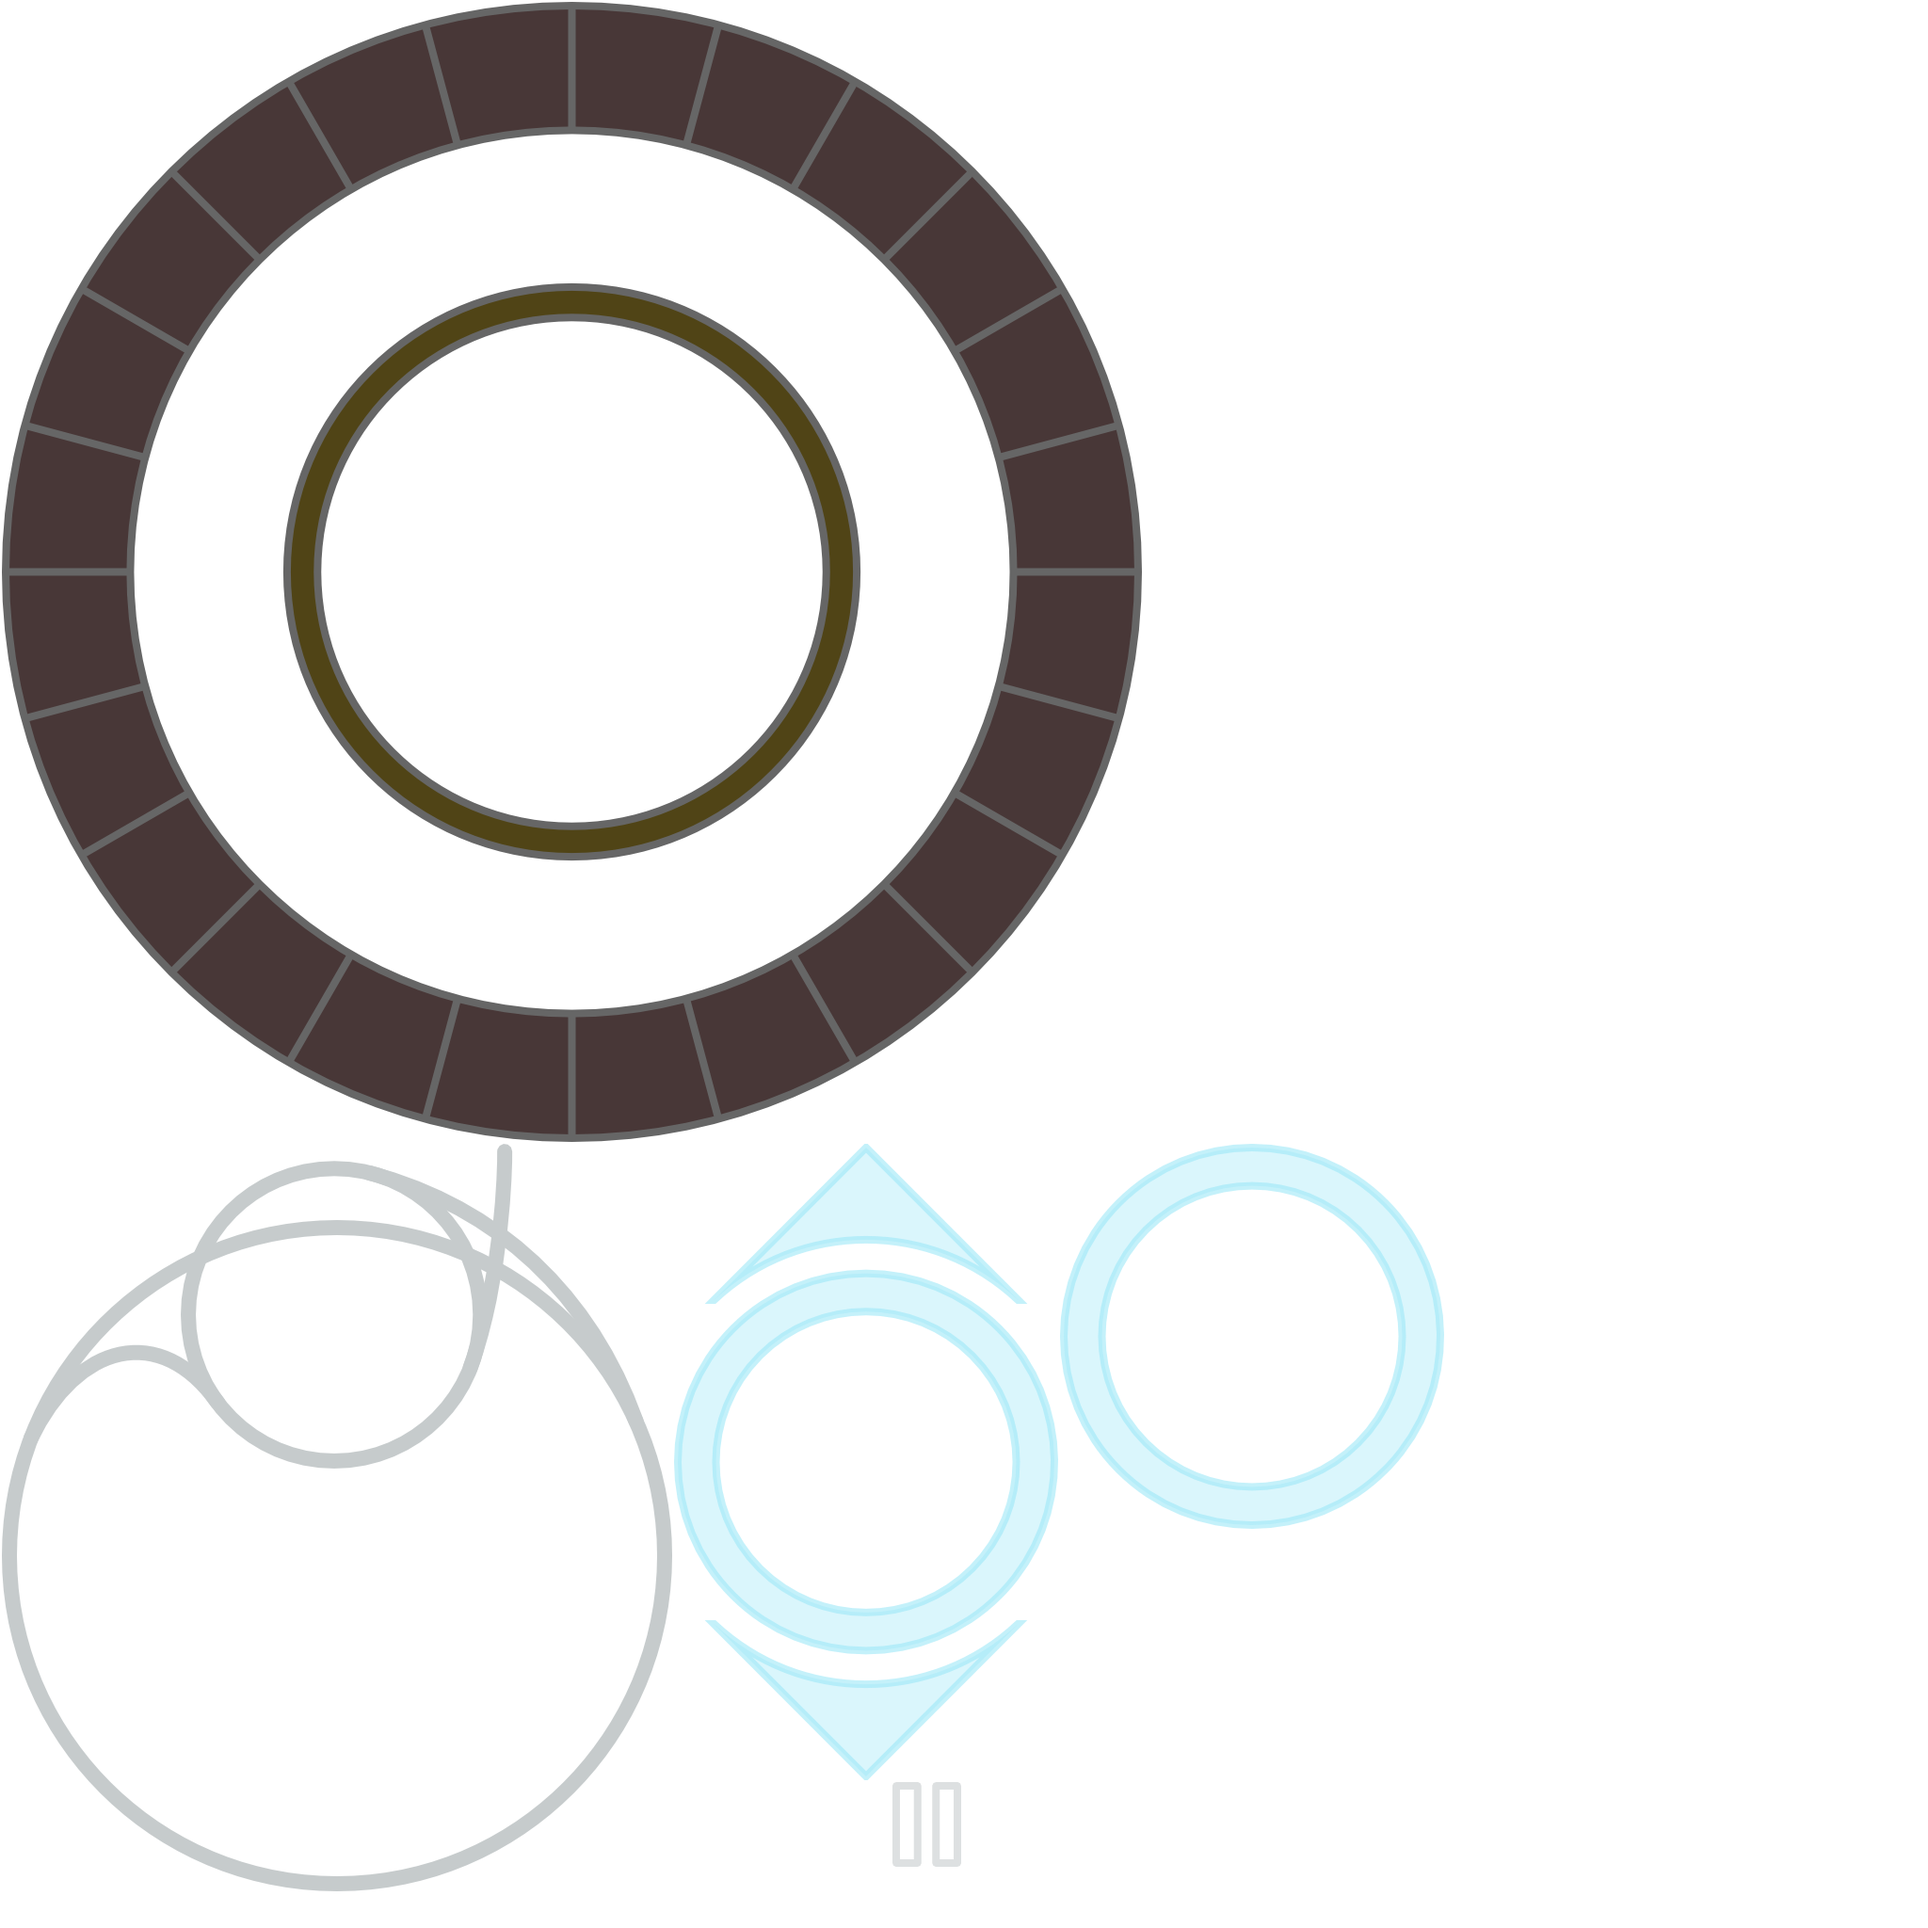
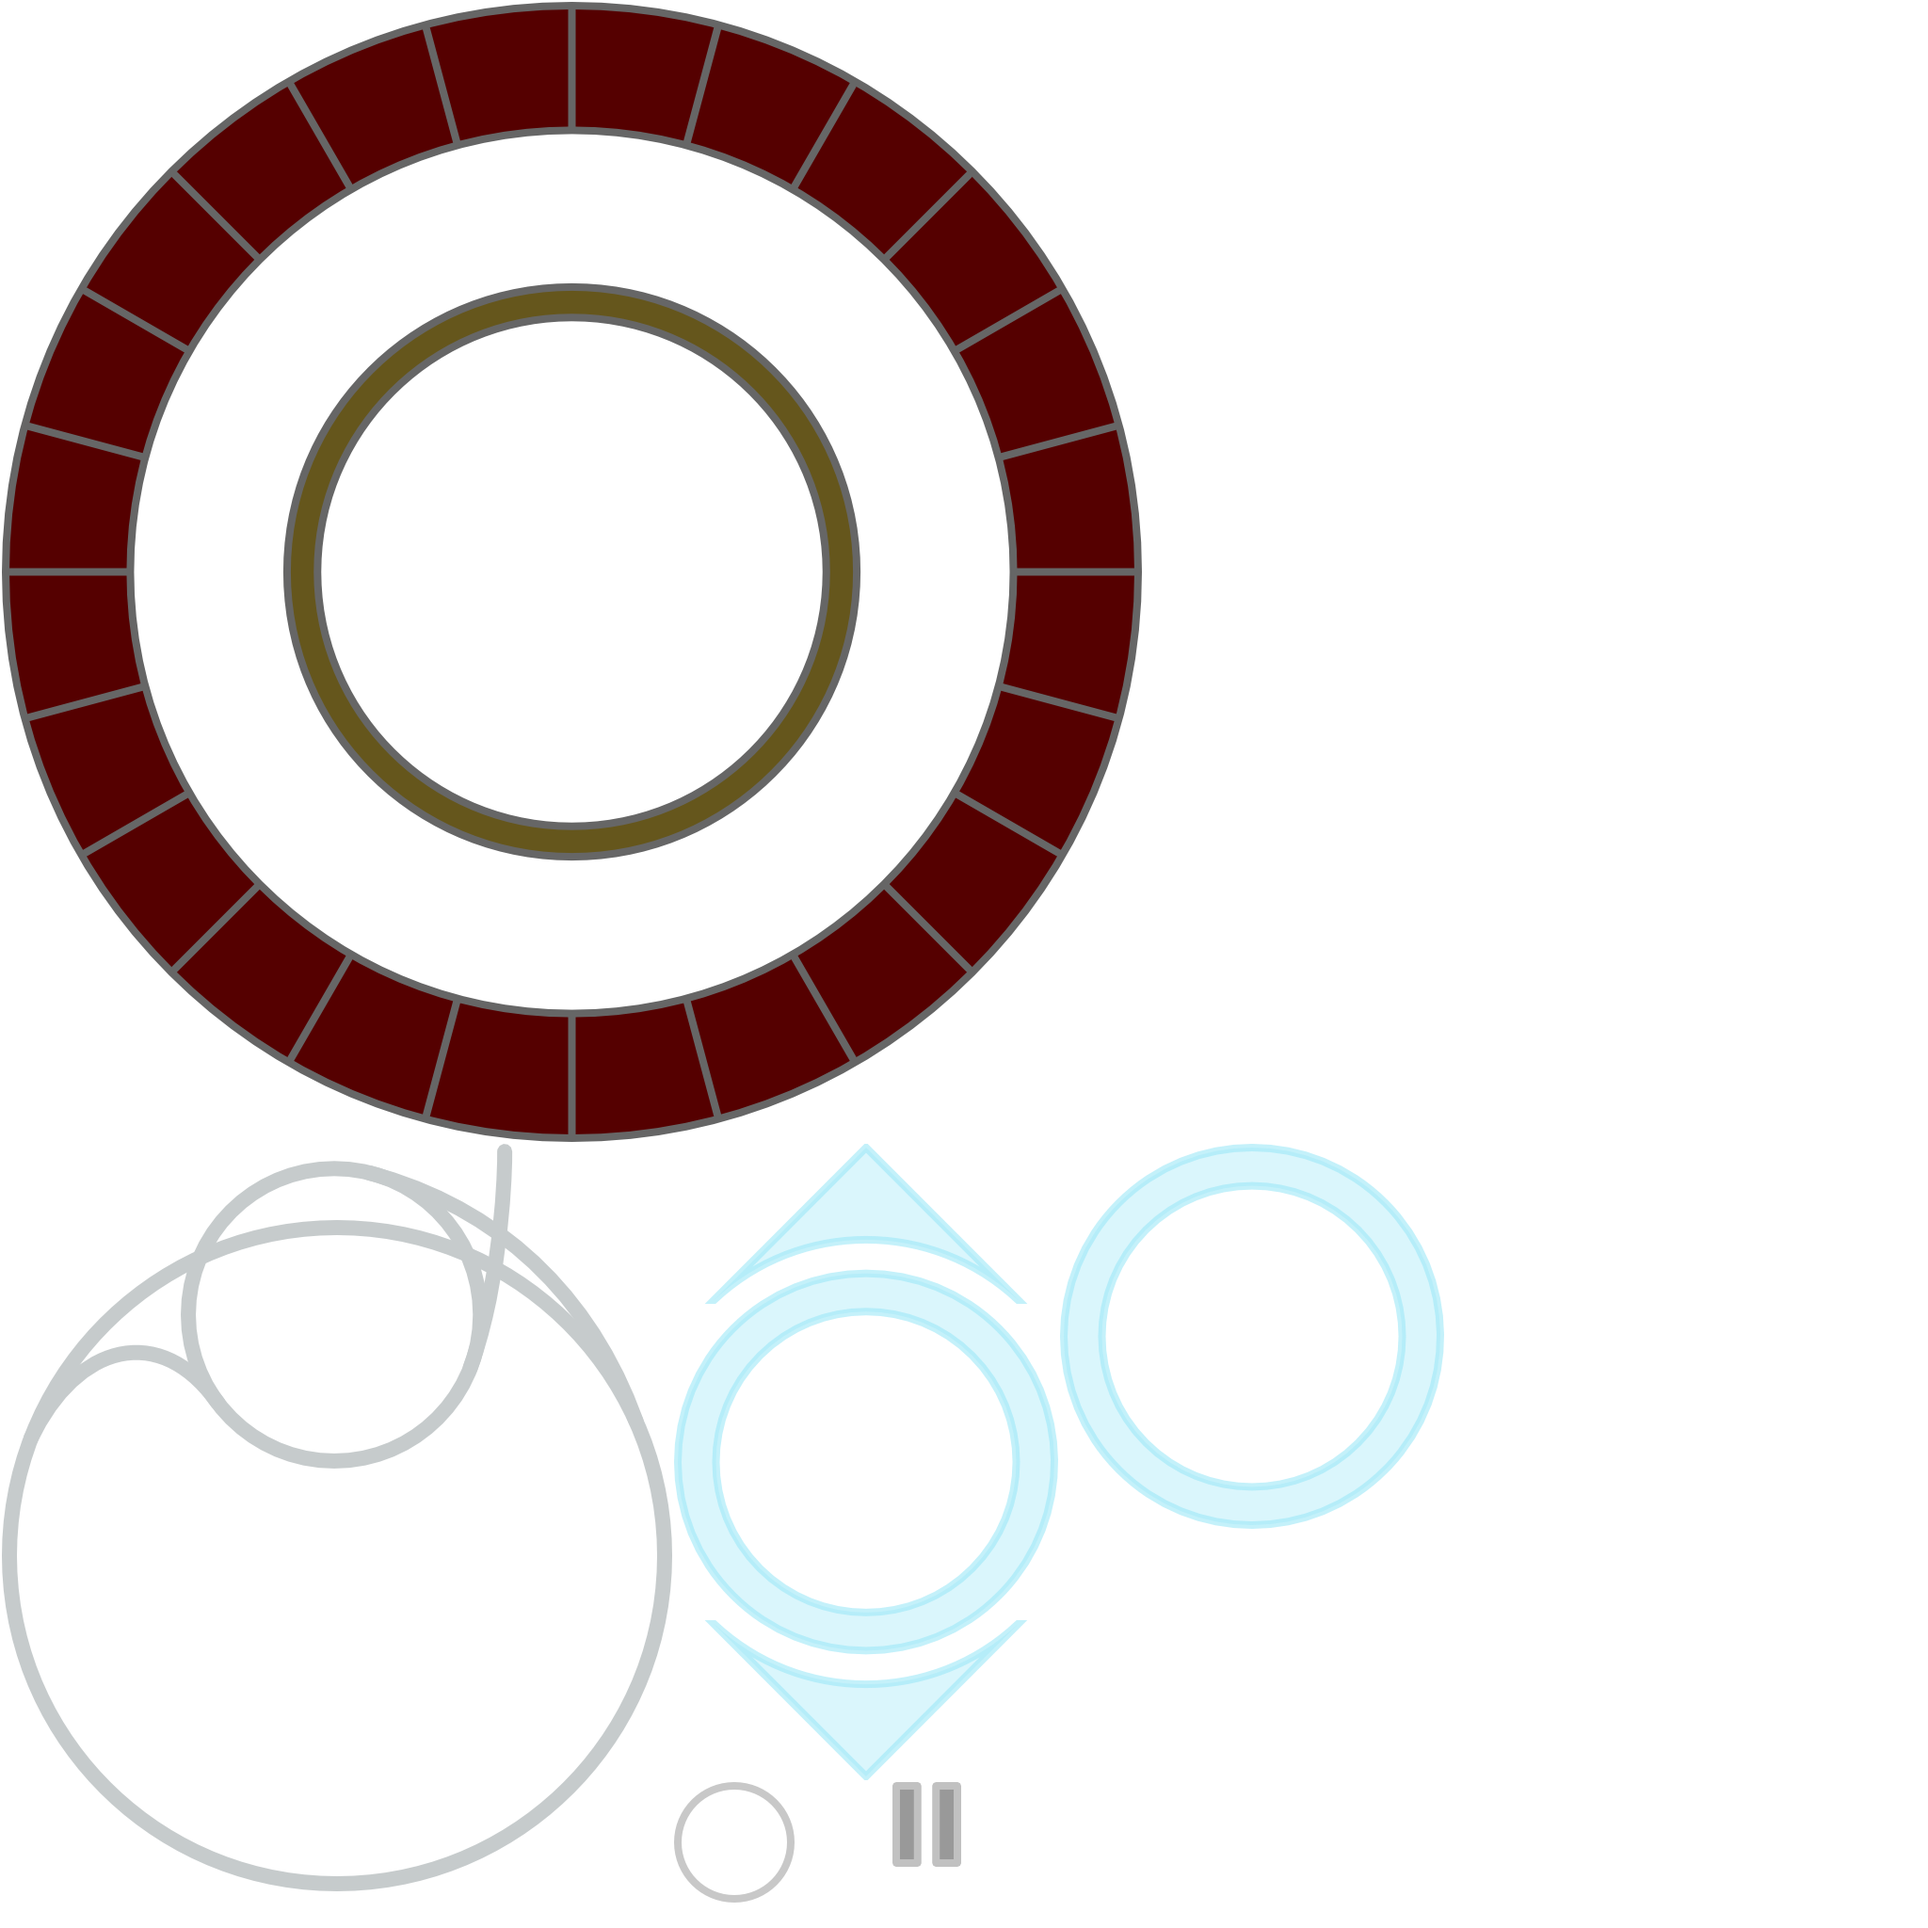
Updated some artwork.

diff --git a/CharmQuark/Classes/GameplayLayer.m b/CharmQuark/Classes/GameplayLayer.m
@@ -165,6 +165,8 @@ void collisionSeparate(cpArbiter *arb, cpSpace *space, GameplayLayer *self)
     score = 0;
     comboLevel = 0;
     comboCount = 0;
+    level = 1;
+    matchesToNextLevel = kMatchesPerLevel;
     
     switch ([GameManager sharedGameManager].curLevel) {
         case kGameSceneTimeAttack:
@@ -174,8 +176,6 @@ void collisionSeparate(cpArbiter *arb, cpSpace *space, GameplayLayer *self)
             break;
         case kGameSceneSurvival:
         default:
-            level = 1;
-            matchesToNextLevel = kMatchesPerLevel;
             dropFrequency = kDropTimeInit;
             timeRemaining = dropFrequency;
             [levelLabel setString:@"Level: 1"];
@@ -351,7 +351,7 @@ void collisionSeparate(cpArbiter *arb, cpSpace *space, GameplayLayer *self)
                 if (dropFrequency <= kDropTimeMin) {
                     dropFrequency = kDropTimeMin;
                 }
-                [levelLabel setString:[NSString stringWithFormat:@"Level: %d", level]];
+                [levelLabel setString:[NSString stringWithFormat:@"Level: %d (%.1f)", level, dropFrequency]];
                 id scaleUp = [CCScaleTo actionWithDuration:0.2f scaleX:1.2 scaleY:1.0];
                 id scaleDown = [CCScaleTo actionWithDuration:0.2f scale:1.0];
                 id seq = [CCSequence actions: scaleUp, scaleDown, nil];
@@ -626,14 +626,17 @@ void collisionSeparate(cpArbiter *arb, cpSpace *space, GameplayLayer *self)
 
     // Pause Button
     CCSprite *pauseSprite = [CCSprite spriteWithSpriteFrameName:@"pause.png"];
-    CCSprite *pauseSpriteSelected = [CCSprite spriteWithSpriteFrameName:@"pause.png"];
-    CCMenuItemSprite *pauseButton = [CCMenuItemSprite itemWithNormalSprite:pauseSprite 
-                                                            selectedSprite:pauseSpriteSelected
-                                                                    target:self
-                                                                  selector:@selector(pause)];
-    CCMenu *menu = [CCMenu menuWithItems:pauseButton, nil];
-    [menu setPosition:ccp(winSize.width * 0.95f, winSize.height * 0.95f)];
-    [self addChild:menu z:kZUIElements];
+//    CCSprite *pauseSpriteSelected = [CCSprite spriteWithSpriteFrameName:@"pause.png"];
+//    CCMenuItemSprite *pauseButton = [CCMenuItemSprite itemWithNormalSprite:pauseSprite 
+//                                                            selectedSprite:pauseSpriteSelected
+//                                                                    target:self
+//                                                                  selector:@selector(pause)];
+//    CCMenu *menu = [CCMenu menuWithItems:pauseButton, nil];
+//    [menu setPosition:ccp(winSize.width * 0.95f, winSize.height * 0.95f)];
+//    [self addChild:menu z:kZUIElements];
+
+    [pauseSprite setPosition:ccp(winSize.width * 0.95f, winSize.height * 0.95f)];
+    [uiBatchNode addChild:pauseSprite z:kZUIElements];
     
     // Add score label.
     scoreLabel = [CCLabelBMFont labelWithString:@"0" fntFile:@"score.fnt"];
@@ -698,7 +701,10 @@ void collisionSeparate(cpArbiter *arb, cpSpace *space, GameplayLayer *self)
     for (UITouch *touch in touches) {
         CGPoint location = [touch locationInView: [touch view]];
 		location = [[CCDirector sharedDirector] convertToGL: location];
-        if (location.x < winSize.width * 0.5) {
+        if (location.x > winSize.width * 0.9 
+            && location.y > winSize.height * 0.9) {
+            [self pause];
+        } else if (location.x < winSize.width * 0.5) {
             // Touches on the left drop pieces on end.
             if (nil == launchTouch) {
                 launchTouch = touch;

diff --git a/CharmQuark/Classes/Detector.m b/CharmQuark/Classes/Detector.m
@@ -14,7 +14,10 @@
 -(id)init {
     self = [super initWithSpriteFrameName:@"detector.png"];
     if (self) {
-        radius = self.contentSize.height * 0.445;
+        int radius = self.contentSize.height / 2;
+        blinkRadius = radius * 0.87;
+        graphRadius = radius * 0.52;
+
         center = ccp(self.contentSize.width / 2,
                      self.contentSize.height / 2);
     }
@@ -26,9 +29,6 @@
     light.anchorPoint = ccp(0.0, 0.5);
     light.color = ccYELLOW;
 
-    float blinkRadius = radius - 0.5 * light.contentSize.width;
-    float graphRadius = radius * 0.52;
-
     // Work in radians.
     angle = CC_DEGREES_TO_RADIANS(angle);
     
@@ -36,14 +36,15 @@
     float blinkAngle = angle - M_PI / 12;
     for (int i = 0; i < 3; i++) {
         CCSprite *blink = [CCSprite spriteWithSpriteFrameName:@"blink.png"];
-        blink.anchorPoint = ccp(0.0, 0.5);
         blink.color = ccYELLOW;
-        blink.position = ccp(center.x + blinkRadius * cosf(angle),
-                              center.y - blinkRadius * sinf(angle));
-        blink.rotation = CC_RADIANS_TO_DEGREES(angle);
+        blink.anchorPoint = ccp(0.5, 0.5);
+        blink.scaleX = 0.5 + (float)rand()/((float)RAND_MAX/0.5);
+        blink.position = ccp(center.x + blinkRadius * cosf(blinkAngle),
+                              center.y - blinkRadius * sinf(blinkAngle));
+        blink.rotation = CC_RADIANS_TO_DEGREES(blinkAngle);
         [self addChild:blink z:100];
-        id scaleOut = [CCScaleTo actionWithDuration:0.5 + (float)rand()/((float)RAND_MAX) 
-                                             scaleX:0.0 scaleY:0.7];
+        id scaleOut = [CCScaleTo actionWithDuration:0.7 + (float)rand()/((float)RAND_MAX) 
+                                             scaleX:0.1 scaleY:0.1];
         id remove = [RemoveFromParentAction action];
         id seq = [CCSequence actions:scaleOut, remove, nil];
         [blink runAction:seq];
@@ -52,7 +53,7 @@
     
     // Draw 7 graphs.
     float graphAngle = angle - M_PI / 12;
-    for (int i = 0; i < 3; i++) {
+    for (int i = 0; i < 5; i++) {
         CCSprite *graph = [CCSprite spriteWithSpriteFrameName:@"graph.png"];
         graph.color = ccGREEN;
         graph.anchorPoint = ccp(0,0.5);
@@ -60,7 +61,7 @@
         graph.position = ccp(center.x + graphRadius * cosf(graphAngle),
                              center.y - graphRadius * sinf(graphAngle));
         graph.rotation = CC_RADIANS_TO_DEGREES(graphAngle);
-        id scaleOut = [CCScaleTo actionWithDuration:0.5 + (float)rand()/((float)RAND_MAX) 
+        id scaleOut = [CCScaleTo actionWithDuration:0.7 + (float)rand()/((float)RAND_MAX) 
                                              scaleX:0.0 scaleY:0.7];
         id remove = [RemoveFromParentAction action];
         id seq = [CCSequence actions:scaleOut, remove, nil];

diff --git a/CharmQuark/Classes/GameplayLayer.h b/CharmQuark/Classes/GameplayLayer.h
@@ -22,26 +22,29 @@
 #define kColorsInit             6
 #define kColorsMax              6 //9
 
+// Particle speed.
 #define kLaunchV                1200.0f
 #define kGravity                1200.0f
-
 #define kLaunchVMax             1800.0f
 
+// Game clock settings.
 #define kTimeLimit              120.0f
 #define kDropTimeInit           4.0f //4.0f
 #define kDropTimeMin            1.4f
 #define kDropTimeStep           0.2f
 
+// Collision sound volume control
 #define kMinSoundImpulse        1200.0f
 #define kMaxSoundImpulse        10000.0f
 
+// Rotation inertia
 #define kRotationFalloff        2.5f
-#define kRotationMaxAngleV      400.0f
-#define kRotationMinAngleV      2.5f
+#define kRotationMaxAngleV      450.0f
+#define kRotationMinAngleV      2.0f
 
 // Simulation Constants
 #define kSimulationRate         0.016667f
-#define kParticleRadius         32.0f
+#define kParticleRadius         31.5f //32.0f
 #define kParticleMass           10.0f
 #define kParticleFriction       0.07f // 0.0f
 #define kParticleFrictionB      0.07f // 0.2f

diff --git a/CharmQuark/Classes/MainMenuLayer.m b/CharmQuark/Classes/MainMenuLayer.m
@@ -57,7 +57,7 @@
     
     //TODO: Replace with CCMenuItemAtlasFont
     //Play
-    CCMenuItemFont *survivalItem = [CCMenuItemFont itemWithString:@"Survival" target:self selector:@selector(playSurvival)];
+    CCMenuItemFont *survivalItem = [CCMenuItemFont itemWithString:@"Accellerator" target:self selector:@selector(playSurvival)];
     [survivalItem setFontName:@"Courier"];
     [survivalItem setColor:ccWHITE];
 

diff --git a/CharmQuark/Classes/Detector.h b/CharmQuark/Classes/Detector.h
@@ -11,7 +11,8 @@
 
 @interface Detector : CCSprite {
     CGPoint center;
-    CGFloat radius;
+    CGFloat blinkRadius;
+    CGFloat graphRadius;
 }
 
 -(void)blinkAtAngle:(CGFloat)angle;
